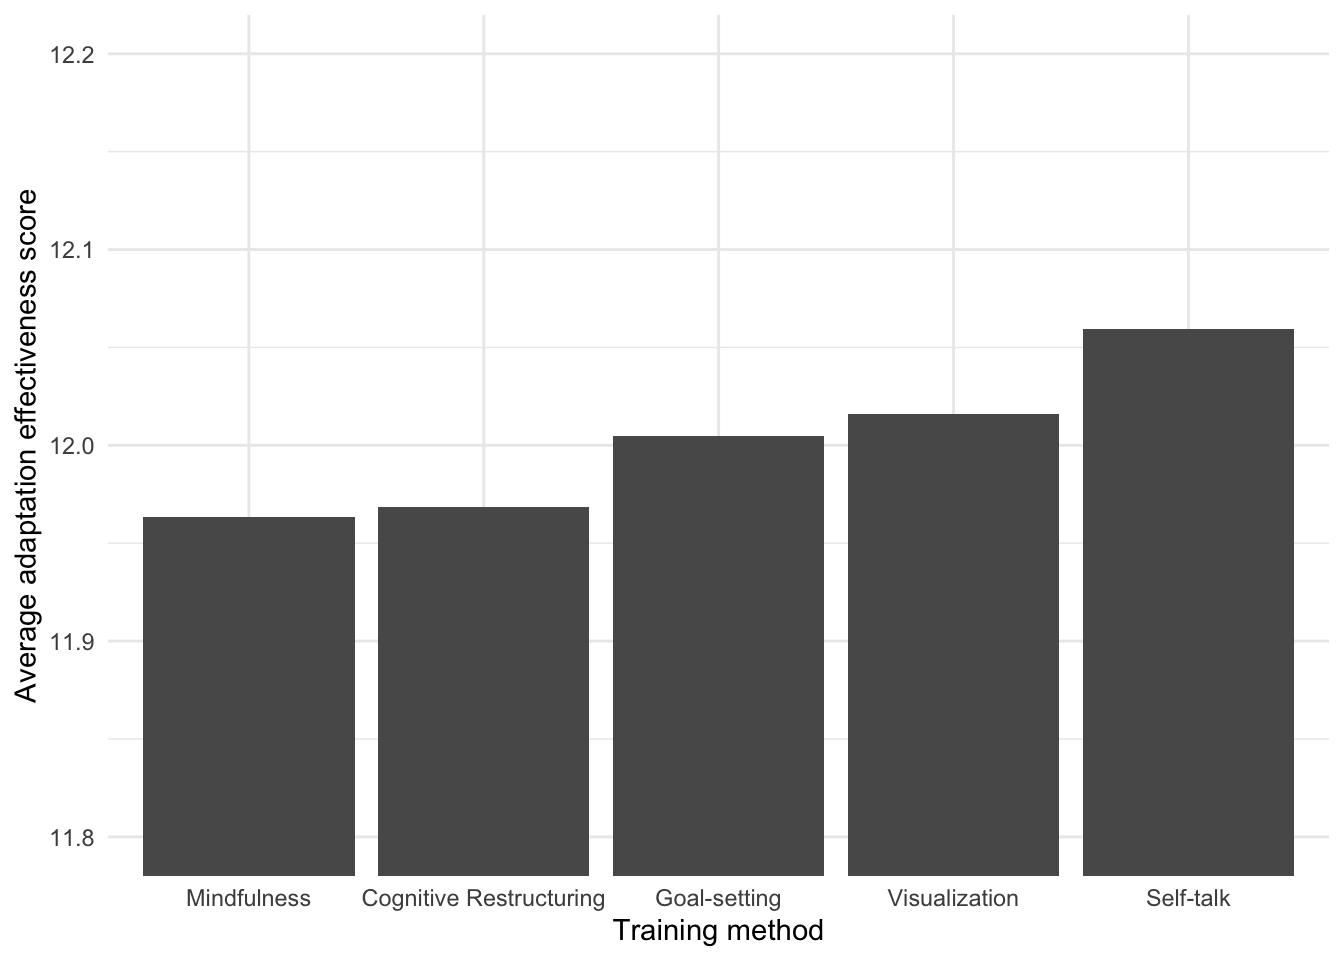
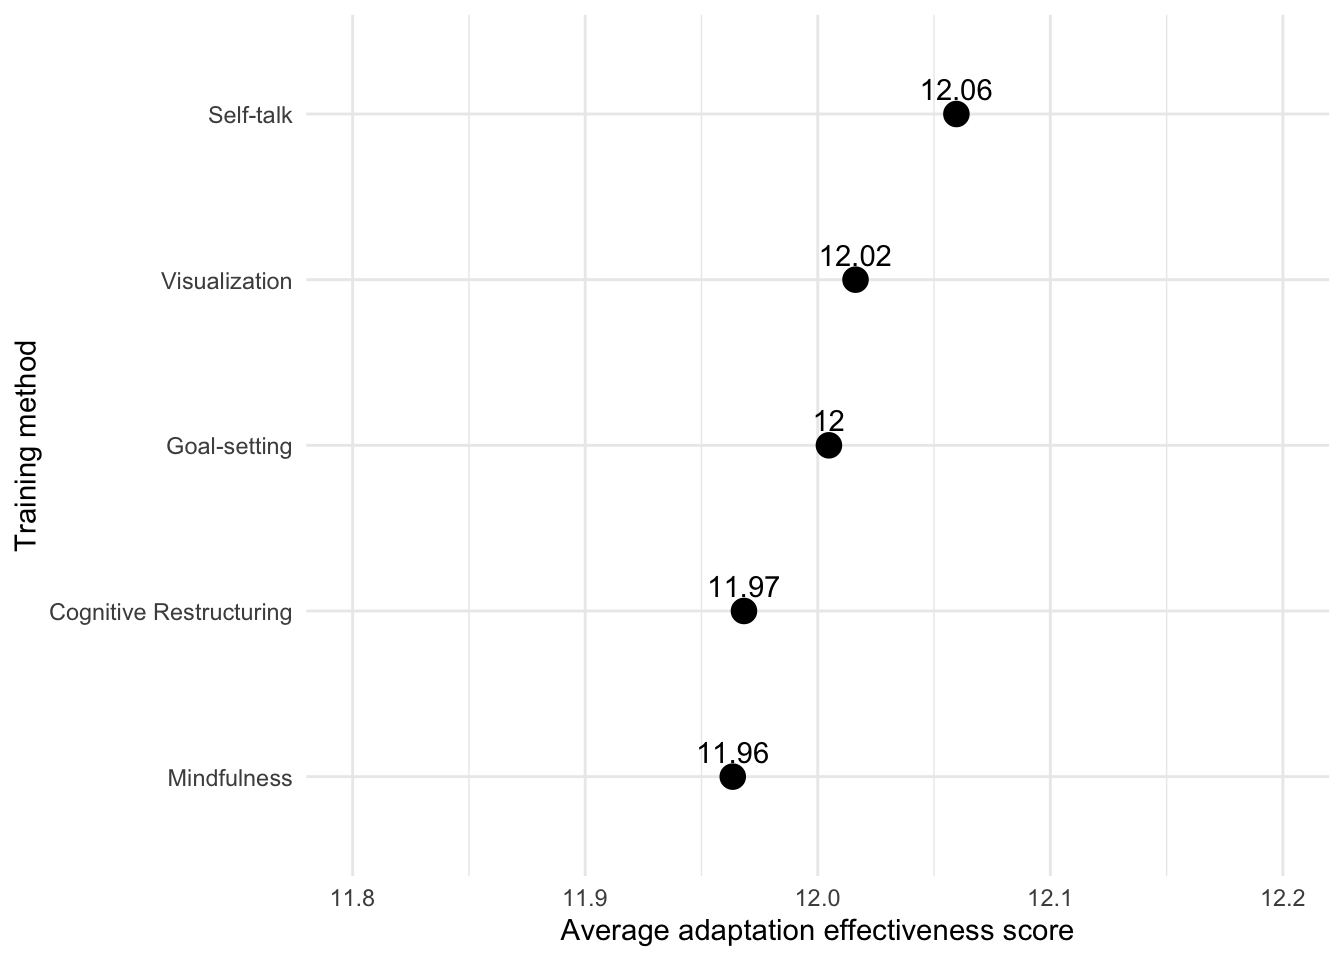
Finished the last section for the sports psych post

diff --git a/docs/posts/sports_training_psych/index.html b/docs/posts/sports_training_psych/index.html
@@ -333,6 +333,7 @@ pre > code.sourceCode > span > a:first-child::before { text-decoration: underlin
   <li><a href="#examining-the-training-methods" id="toc-examining-the-training-methods" class="nav-link" data-scroll-target="#examining-the-training-methods">Examining the Training Methods</a></li>
   <li><a href="#summarizing-effectiveness-by-method" id="toc-summarizing-effectiveness-by-method" class="nav-link" data-scroll-target="#summarizing-effectiveness-by-method">Summarizing Effectiveness by Method</a></li>
   <li><a href="#comparing-average-effectiveness" id="toc-comparing-average-effectiveness" class="nav-link" data-scroll-target="#comparing-average-effectiveness">Comparing Average Effectiveness</a></li>
+  <li><a href="#relationship-between-adherence-and-effectiveness" id="toc-relationship-between-adherence-and-effectiveness" class="nav-link" data-scroll-target="#relationship-between-adherence-and-effectiveness">Relationship between Adherence and Effectiveness</a></li>
   </ul>
 </nav>
     </div>
@@ -484,17 +485,21 @@ $ Adaptation_Effectiveness_Score  &lt;dbl&gt; 18.646073, 15.376260, 16.099560, 1
 <div class="code-copy-outer-scaffold"><div class="sourceCode cell-code" id="cb7"><pre class="sourceCode r code-with-copy"><code class="sourceCode r"><span id="cb7-1"><a href="#cb7-1" aria-hidden="true" tabindex="-1"></a><span class="fu">ggplot</span>(</span>
 <span id="cb7-2"><a href="#cb7-2" aria-hidden="true" tabindex="-1"></a>  method_summary,</span>
 <span id="cb7-3"><a href="#cb7-3" aria-hidden="true" tabindex="-1"></a>  <span class="fu">aes</span>(</span>
-<span id="cb7-4"><a href="#cb7-4" aria-hidden="true" tabindex="-1"></a>    <span class="at">x =</span> <span class="fu">reorder</span>(Training_Method, avg_effectiveness),</span>
-<span id="cb7-5"><a href="#cb7-5" aria-hidden="true" tabindex="-1"></a>    <span class="at">y =</span> avg_effectiveness</span>
+<span id="cb7-4"><a href="#cb7-4" aria-hidden="true" tabindex="-1"></a>    <span class="at">y =</span> <span class="fu">reorder</span>(Training_Method, avg_effectiveness),</span>
+<span id="cb7-5"><a href="#cb7-5" aria-hidden="true" tabindex="-1"></a>    <span class="at">x =</span> avg_effectiveness</span>
 <span id="cb7-6"><a href="#cb7-6" aria-hidden="true" tabindex="-1"></a>  )</span>
 <span id="cb7-7"><a href="#cb7-7" aria-hidden="true" tabindex="-1"></a>) <span class="sc">+</span></span>
-<span id="cb7-8"><a href="#cb7-8" aria-hidden="true" tabindex="-1"></a>  <span class="fu">geom_col</span>() <span class="sc">+</span></span>
-<span id="cb7-9"><a href="#cb7-9" aria-hidden="true" tabindex="-1"></a>  <span class="fu">coord_cartesian</span>(<span class="at">ylim =</span> <span class="fu">c</span>(<span class="fl">11.8</span>, <span class="fl">12.2</span>)) <span class="sc">+</span></span>
-<span id="cb7-10"><a href="#cb7-10" aria-hidden="true" tabindex="-1"></a>  <span class="fu">labs</span>(</span>
-<span id="cb7-11"><a href="#cb7-11" aria-hidden="true" tabindex="-1"></a>    <span class="at">x =</span> <span class="st">"Training method"</span>,</span>
-<span id="cb7-12"><a href="#cb7-12" aria-hidden="true" tabindex="-1"></a>    <span class="at">y =</span> <span class="st">"Average adaptation effectiveness score"</span></span>
-<span id="cb7-13"><a href="#cb7-13" aria-hidden="true" tabindex="-1"></a>  ) <span class="sc">+</span></span>
-<span id="cb7-14"><a href="#cb7-14" aria-hidden="true" tabindex="-1"></a>  <span class="fu">theme_minimal</span>()</span></code></pre></div><button title="Copy to Clipboard" class="code-copy-button"><i class="bi"></i></button></div>
+<span id="cb7-8"><a href="#cb7-8" aria-hidden="true" tabindex="-1"></a>  <span class="fu">geom_point</span>(<span class="at">size =</span> <span class="dv">4</span>) <span class="sc">+</span></span>
+<span id="cb7-9"><a href="#cb7-9" aria-hidden="true" tabindex="-1"></a>  <span class="fu">geom_text</span>(</span>
+<span id="cb7-10"><a href="#cb7-10" aria-hidden="true" tabindex="-1"></a>    <span class="fu">aes</span>(<span class="at">label =</span> <span class="fu">round</span>(avg_effectiveness, <span class="dv">2</span>)),</span>
+<span id="cb7-11"><a href="#cb7-11" aria-hidden="true" tabindex="-1"></a>    <span class="at">nudge_y =</span> <span class="fl">0.15</span></span>
+<span id="cb7-12"><a href="#cb7-12" aria-hidden="true" tabindex="-1"></a>  ) <span class="sc">+</span></span>
+<span id="cb7-13"><a href="#cb7-13" aria-hidden="true" tabindex="-1"></a>  <span class="fu">coord_cartesian</span>(<span class="at">xlim =</span> <span class="fu">c</span>(<span class="fl">11.8</span>, <span class="fl">12.2</span>)) <span class="sc">+</span></span>
+<span id="cb7-14"><a href="#cb7-14" aria-hidden="true" tabindex="-1"></a>  <span class="fu">labs</span>(</span>
+<span id="cb7-15"><a href="#cb7-15" aria-hidden="true" tabindex="-1"></a>    <span class="at">x =</span> <span class="st">"Average adaptation effectiveness score"</span>,</span>
+<span id="cb7-16"><a href="#cb7-16" aria-hidden="true" tabindex="-1"></a>    <span class="at">y =</span> <span class="st">"Training method"</span></span>
+<span id="cb7-17"><a href="#cb7-17" aria-hidden="true" tabindex="-1"></a>  ) <span class="sc">+</span></span>
+<span id="cb7-18"><a href="#cb7-18" aria-hidden="true" tabindex="-1"></a>  <span class="fu">theme_minimal</span>()</span></code></pre></div><button title="Copy to Clipboard" class="code-copy-button"><i class="bi"></i></button></div>
 <div class="cell-output-display">
 <div id="fig-training-effectiveness" class="quarto-float quarto-figure quarto-figure-center anchored">
 <figure class="quarto-float quarto-float-fig figure">
@@ -508,6 +513,38 @@ Figure&nbsp;1: Average adaptation effectiveness score by psychological training 
 </div>
 </div>
 </div>
+<p>Even though some methods are preferred more than others, this figure above shows that the average adapatation effectiveness scores are very similar across all five training methods.</p>
+<p>Self-talk method had the highest average score at about 12.06 while mindfulness had the lowest average score at about 11.96. This only produces a spread between the highest and lowest score at 0.10 points, which suggests that the training method alone isn’t very strongly associated with adaptation effectiveness in this dataset.</p>
+</section>
+<section id="relationship-between-adherence-and-effectiveness" class="level2">
+<h2 class="anchored" data-anchor-id="relationship-between-adherence-and-effectiveness">Relationship between Adherence and Effectiveness</h2>
+<div class="cell">
+<div class="code-copy-outer-scaffold"><div class="sourceCode cell-code" id="cb8"><pre class="sourceCode r code-with-copy"><code class="sourceCode r"><span id="cb8-1"><a href="#cb8-1" aria-hidden="true" tabindex="-1"></a><span class="fu">tibble</span>(</span>
+<span id="cb8-2"><a href="#cb8-2" aria-hidden="true" tabindex="-1"></a>  <span class="at">measure =</span> <span class="fu">c</span>(<span class="st">"Pearson correlation"</span>, <span class="st">"Kendall's tau"</span>),</span>
+<span id="cb8-3"><a href="#cb8-3" aria-hidden="true" tabindex="-1"></a>  <span class="at">value =</span> <span class="fu">c</span>(</span>
+<span id="cb8-4"><a href="#cb8-4" aria-hidden="true" tabindex="-1"></a>    <span class="fu">cor</span>(</span>
+<span id="cb8-5"><a href="#cb8-5" aria-hidden="true" tabindex="-1"></a>      sports<span class="sc">$</span>Training_Adherence_Rate,</span>
+<span id="cb8-6"><a href="#cb8-6" aria-hidden="true" tabindex="-1"></a>      sports<span class="sc">$</span>Adaptation_Effectiveness_Score,</span>
+<span id="cb8-7"><a href="#cb8-7" aria-hidden="true" tabindex="-1"></a>      <span class="at">use =</span> <span class="st">"complete.obs"</span>,</span>
+<span id="cb8-8"><a href="#cb8-8" aria-hidden="true" tabindex="-1"></a>      <span class="at">method =</span> <span class="st">"pearson"</span></span>
+<span id="cb8-9"><a href="#cb8-9" aria-hidden="true" tabindex="-1"></a>    ),</span>
+<span id="cb8-10"><a href="#cb8-10" aria-hidden="true" tabindex="-1"></a>    <span class="fu">cor</span>(</span>
+<span id="cb8-11"><a href="#cb8-11" aria-hidden="true" tabindex="-1"></a>      sports<span class="sc">$</span>Training_Adherence_Rate,</span>
+<span id="cb8-12"><a href="#cb8-12" aria-hidden="true" tabindex="-1"></a>      sports<span class="sc">$</span>Adaptation_Effectiveness_Score,</span>
+<span id="cb8-13"><a href="#cb8-13" aria-hidden="true" tabindex="-1"></a>      <span class="at">use =</span> <span class="st">"complete.obs"</span>,</span>
+<span id="cb8-14"><a href="#cb8-14" aria-hidden="true" tabindex="-1"></a>      <span class="at">method =</span> <span class="st">"kendall"</span></span>
+<span id="cb8-15"><a href="#cb8-15" aria-hidden="true" tabindex="-1"></a>    )</span>
+<span id="cb8-16"><a href="#cb8-16" aria-hidden="true" tabindex="-1"></a>  )</span>
+<span id="cb8-17"><a href="#cb8-17" aria-hidden="true" tabindex="-1"></a>)</span></code></pre></div><button title="Copy to Clipboard" class="code-copy-button"><i class="bi"></i></button></div>
+<div class="cell-output cell-output-stdout">
+<pre><code># A tibble: 2 × 2
+  measure                value
+  &lt;chr&gt;                  &lt;dbl&gt;
+1 Pearson correlation -0.00923
+2 Kendall's tau       -0.00474</code></pre>
+</div>
+</div>
+<p>With both Pearson’s correlation (-0.009) and Kendall’s tau (-0.005) nearing very closely to zero, we can see that there is essentially no linear nor monotonic association between adherence to training and the adaptation effectiveness score. This means that, within this dataset, higher adherence to training does not appear to correspond with higher or lower adaptation effectiveness.</p>
 
 
 </section>

diff --git a/docs/blog.html b/docs/blog.html
@@ -402,7 +402,7 @@ Steven Mou
 </a>
 </div>
 </div>
-<div class="quarto-post image-right" data-index="1" data-listing-date-sort="1789974000000" data-listing-file-modified-sort="1790095520483" data-listing-date-modified-sort="NaN" data-listing-reading-time-sort="3" data-listing-word-count-sort="462">
+<div class="quarto-post image-right" data-index="1" data-listing-date-sort="1789974000000" data-listing-file-modified-sort="1790096926772" data-listing-date-modified-sort="NaN" data-listing-reading-time-sort="4" data-listing-word-count-sort="704">
 <div class="thumbnail"><a href="./posts/sports_training_psych/index.html" class="no-external">
 
 <p class="card-img-top"><img loading='lazy' src="posts/sports_training_psych/index_files/figure-html/fig-training-effectiveness-1.png"  class="thumbnail-image card-img"/></p>
